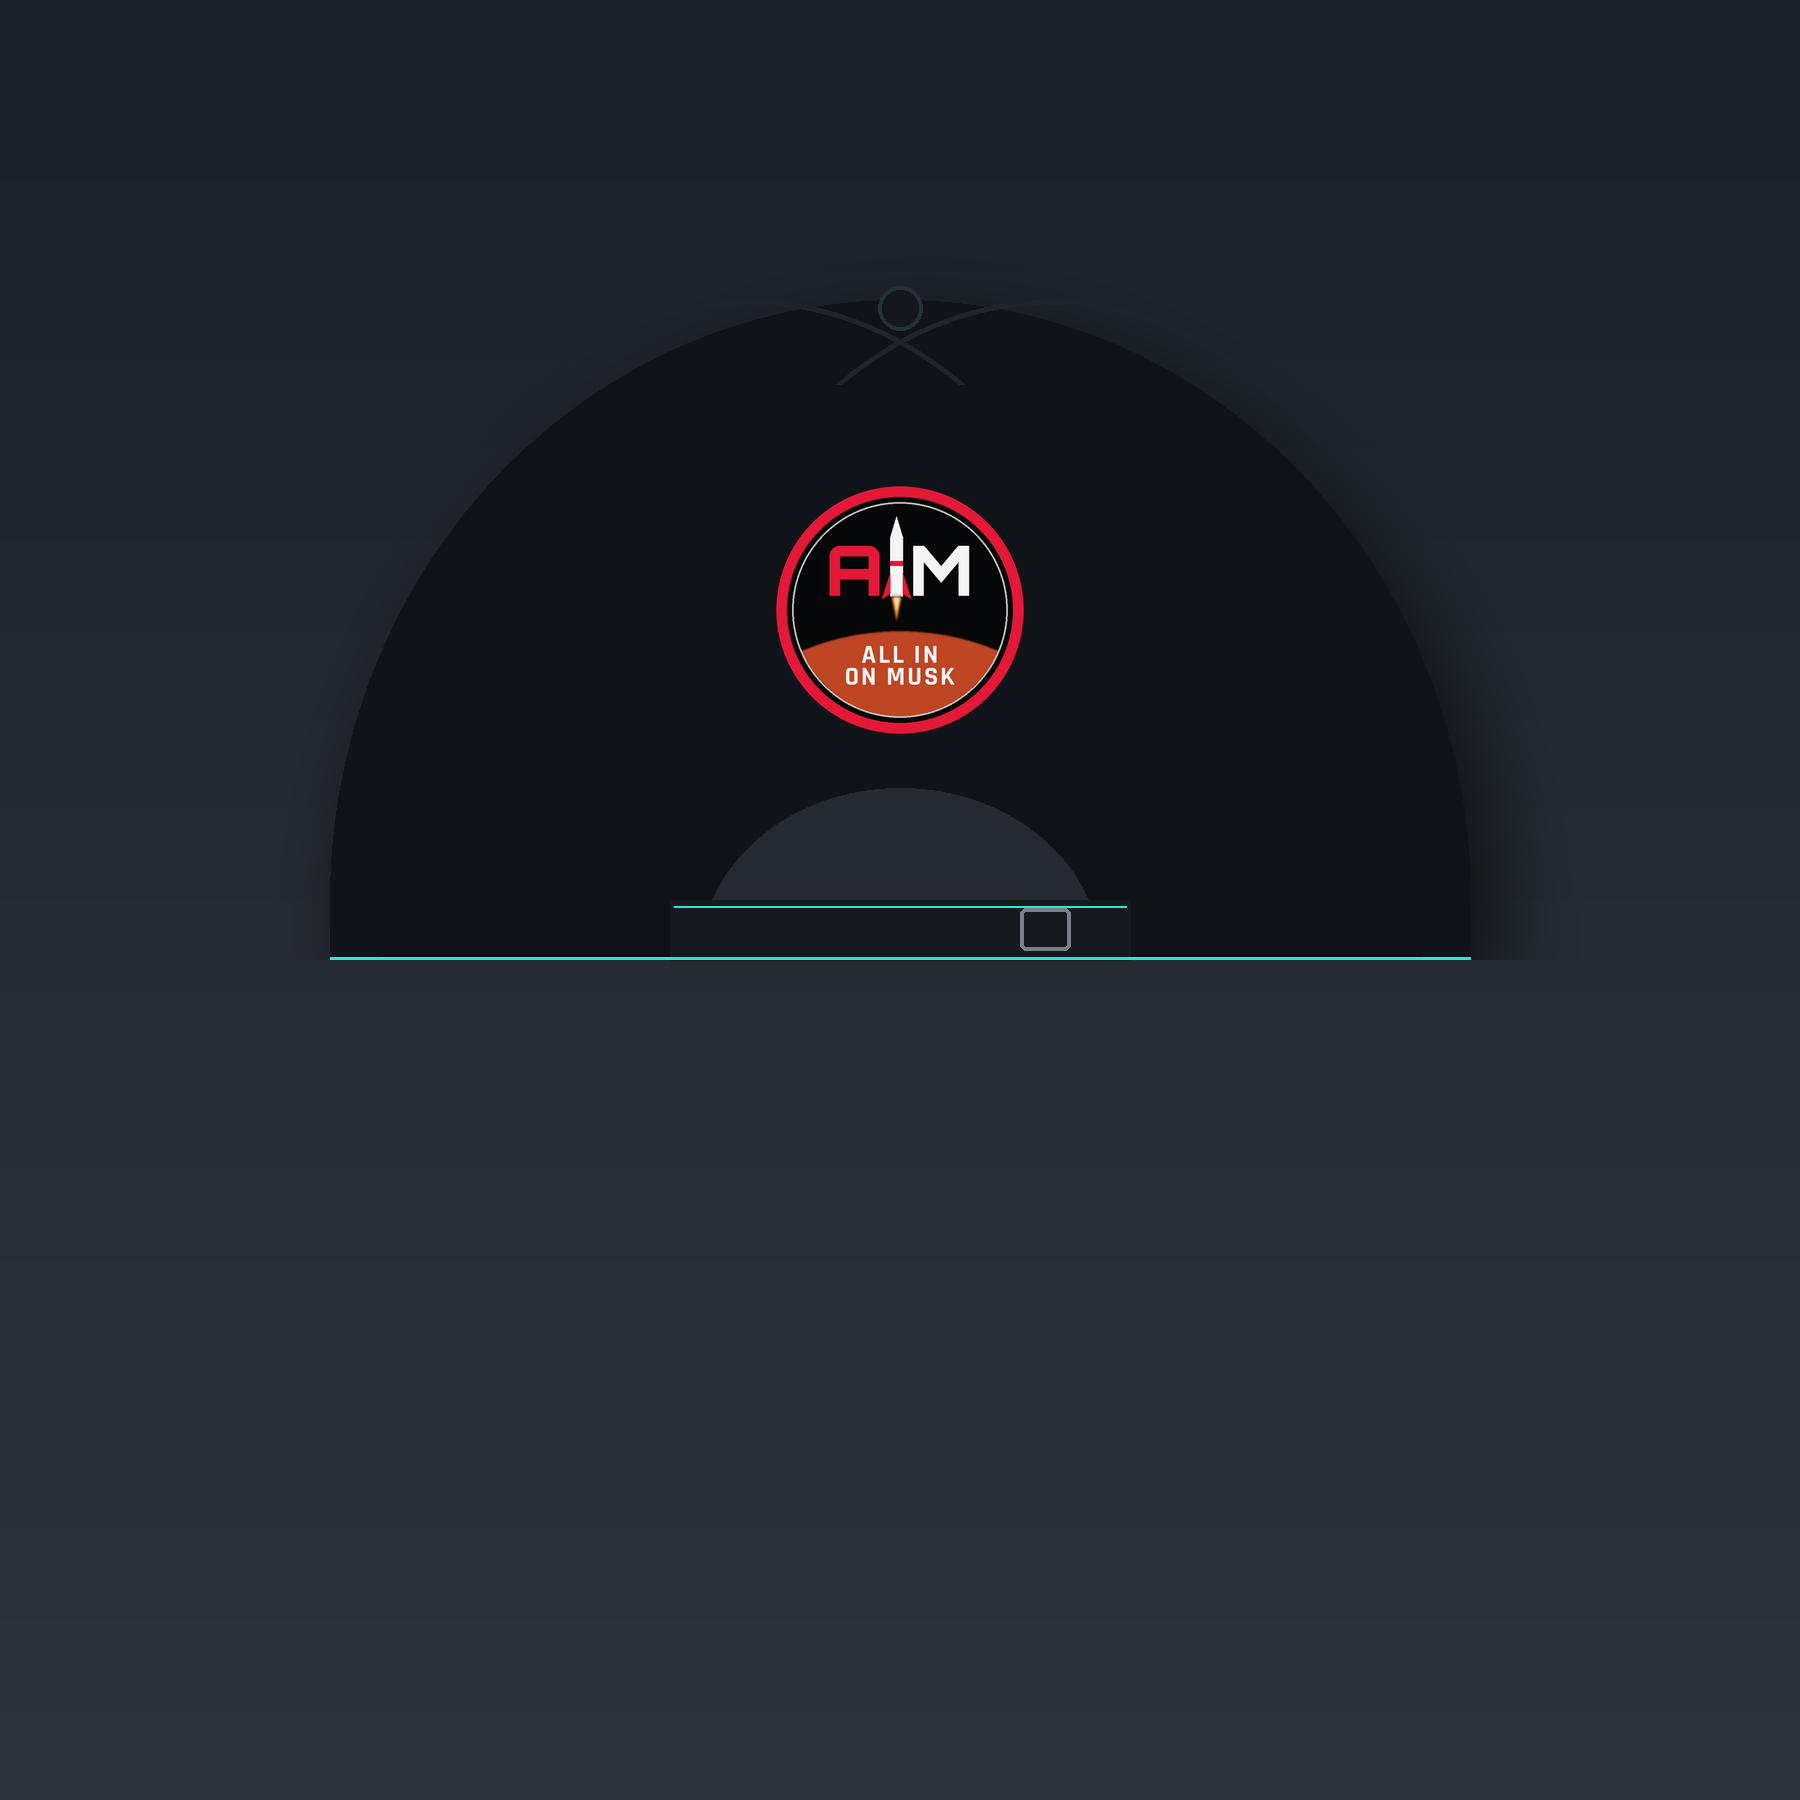
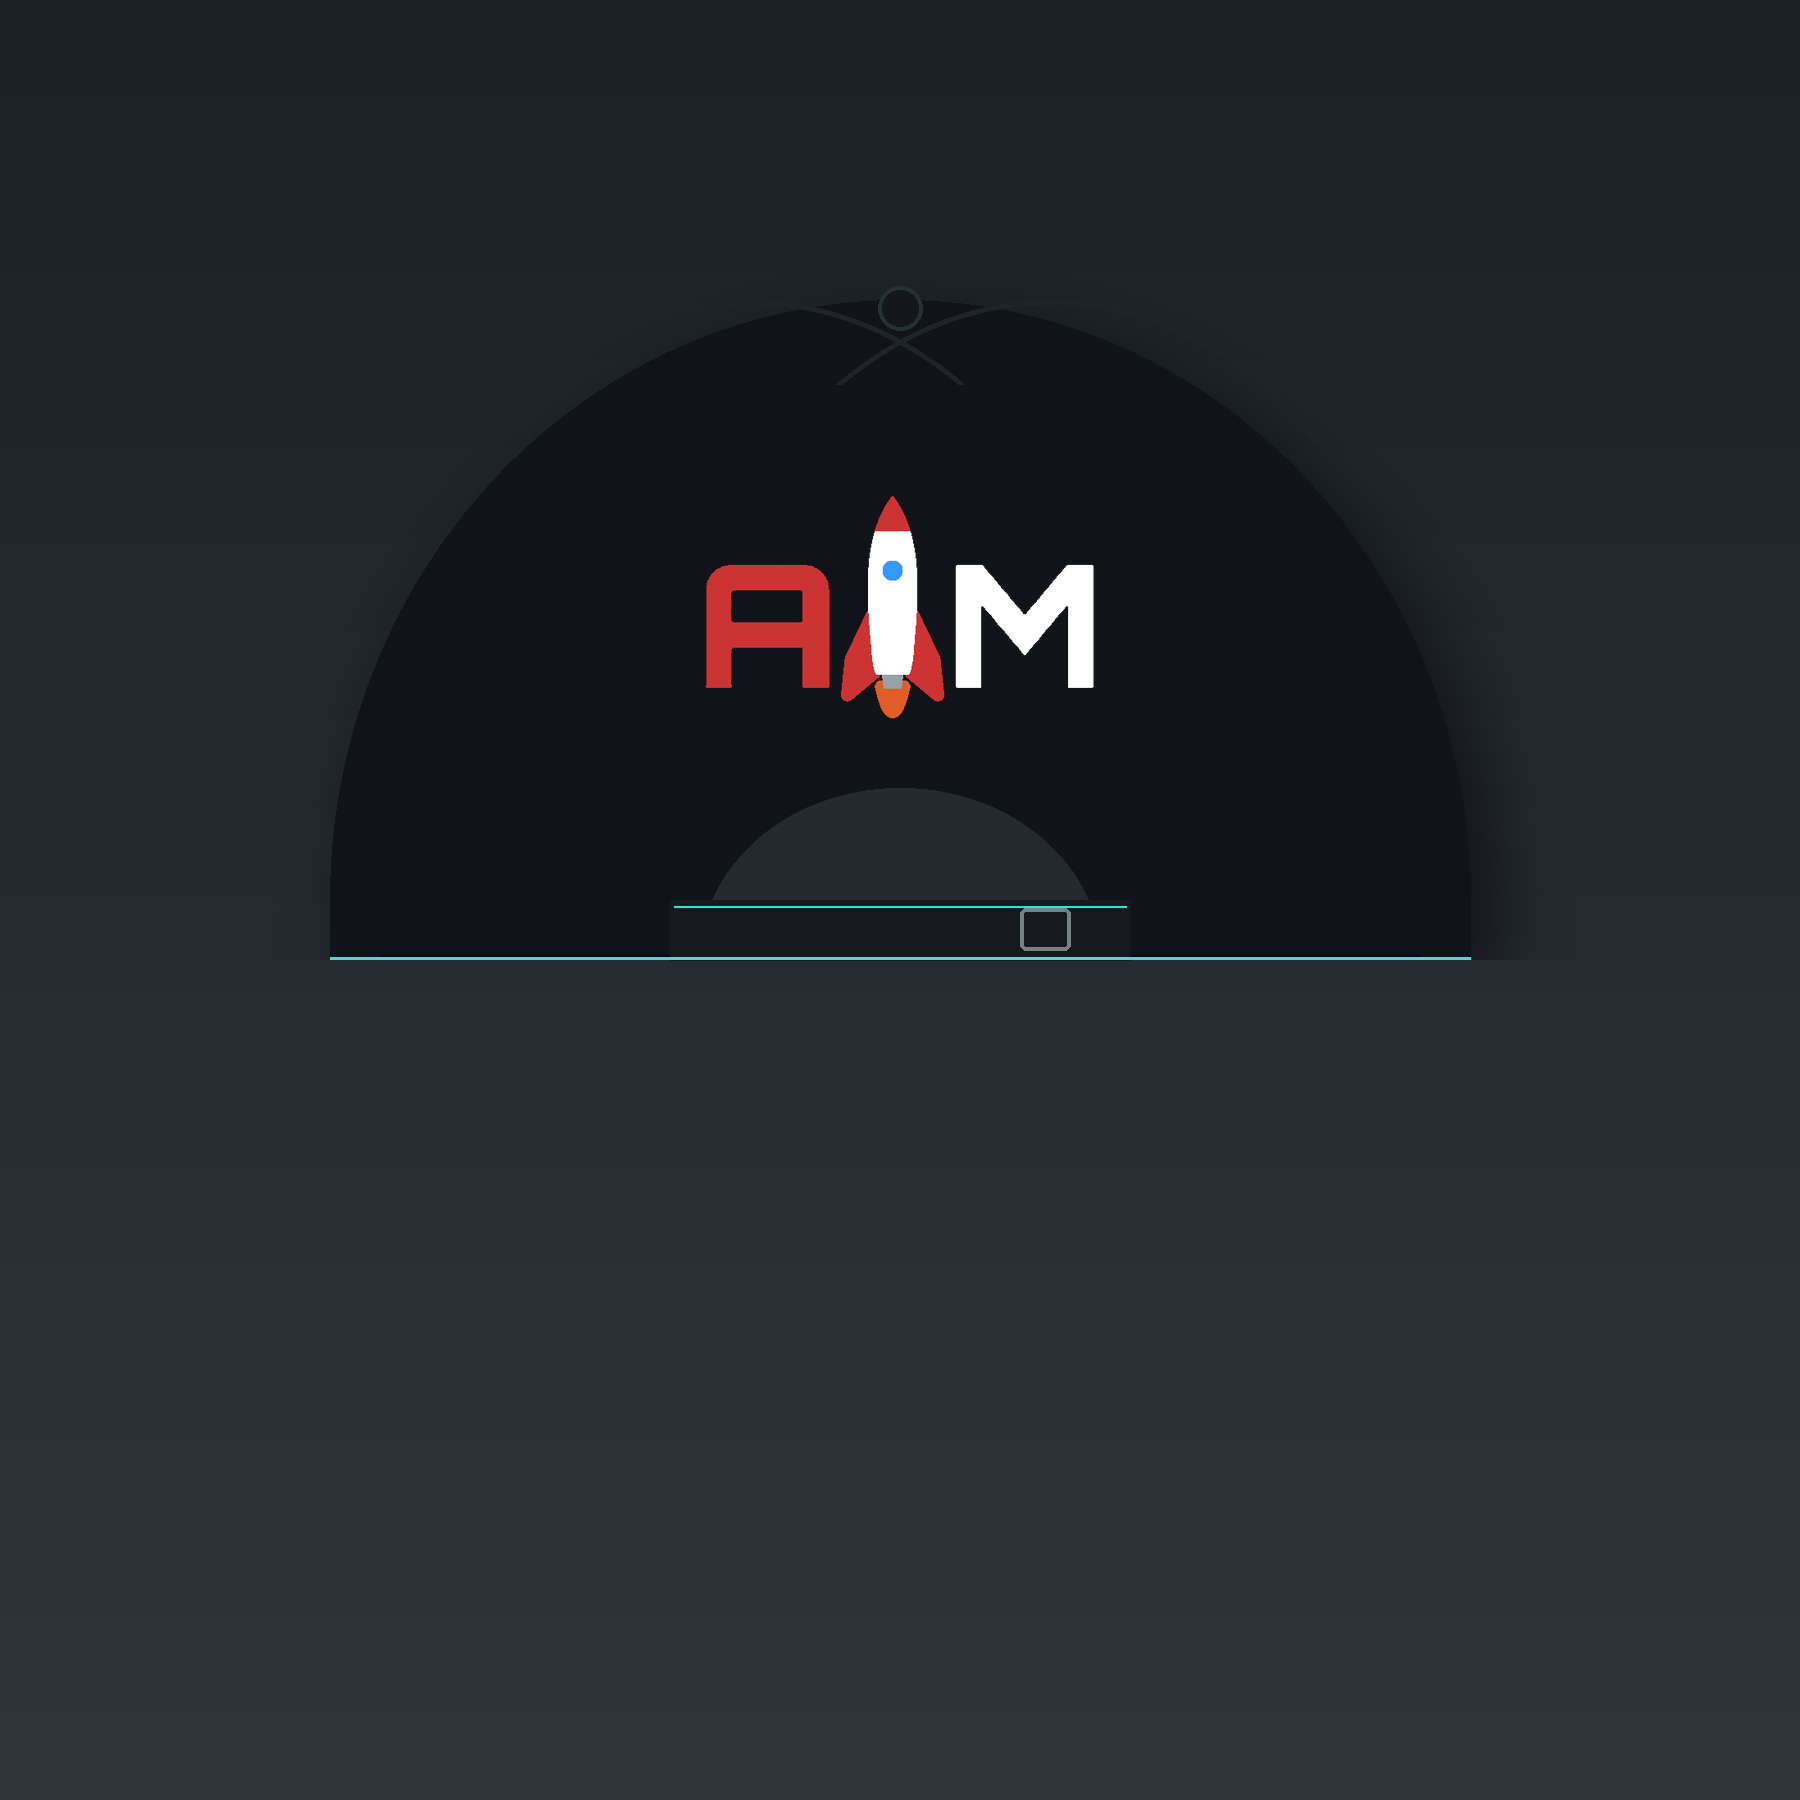
Hats: simplified AIM back embroidery (big letters + standard rocket), 5 back threads, updated back mockups

Changed region(s): [[0.3733, 0.2489, 0.6222, 0.4044]]

diff --git a/src/lib/shop/catalog.ts b/src/lib/shop/catalog.ts
@@ -95,7 +95,7 @@ export const PRODUCTS: Product[] = [
       { type: "embroidery_front", path: "/shop/print/hat.png" },
       { type: "embroidery_back", path: "/shop/print/hat-back-aim.png" },
     ],
-    options: [{ id: "thread_colors", value: ["#FFFFFF", "#3399FF", "#CC3366"] }, { id: "thread_colors_back", value: ["#000000", "#FFFFFF", "#CC3333", "#E25C27"] }],
+    options: [{ id: "thread_colors", value: ["#FFFFFF", "#3399FF", "#CC3366"] }, { id: "thread_colors_back", value: ["#CC3333", "#FFFFFF", "#E25C27", "#96A1A8", "#3399FF"] }],
     taxCode: "txcd_30011000", // clothing
   },
   {
@@ -215,7 +215,7 @@ export const PRODUCTS: Product[] = [
       { type: "embroidery_front", path: "/shop/print/hat-shield-01-rocket.png" },
       { type: "embroidery_back", path: "/shop/print/hat-back-aim.png" },
     ],
-    options: [{ id: "thread_colors", value: ["#000000", "#FFFFFF", "#3399FF", "#CC3366", "#333366"] }, { id: "thread_colors_back", value: ["#000000", "#FFFFFF", "#CC3333", "#E25C27"] }],
+    options: [{ id: "thread_colors", value: ["#000000", "#FFFFFF", "#3399FF", "#CC3366", "#333366"] }, { id: "thread_colors_back", value: ["#CC3333", "#FFFFFF", "#E25C27", "#96A1A8", "#3399FF"] }],
     taxCode: "txcd_30011000",
   },
   {
@@ -239,7 +239,7 @@ export const PRODUCTS: Product[] = [
       { type: "embroidery_front", path: "/shop/print/hat-shield-02-launch-pad.png" },
       { type: "embroidery_back", path: "/shop/print/hat-back-aim.png" },
     ],
-    options: [{ id: "thread_colors", value: ["#000000", "#FFFFFF", "#3399FF", "#CC3366", "#333366"] }, { id: "thread_colors_back", value: ["#000000", "#FFFFFF", "#CC3333", "#E25C27"] }],
+    options: [{ id: "thread_colors", value: ["#000000", "#FFFFFF", "#3399FF", "#CC3366", "#333366"] }, { id: "thread_colors_back", value: ["#CC3333", "#FFFFFF", "#E25C27", "#96A1A8", "#3399FF"] }],
     taxCode: "txcd_30011000",
   },
   {
@@ -263,7 +263,7 @@ export const PRODUCTS: Product[] = [
       { type: "embroidery_front", path: "/shop/print/hat-shield-03-gear.png" },
       { type: "embroidery_back", path: "/shop/print/hat-back-aim.png" },
     ],
-    options: [{ id: "thread_colors", value: ["#000000", "#FFFFFF", "#3399FF", "#CC3366", "#333366"] }, { id: "thread_colors_back", value: ["#000000", "#FFFFFF", "#CC3333", "#E25C27"] }],
+    options: [{ id: "thread_colors", value: ["#000000", "#FFFFFF", "#3399FF", "#CC3366", "#333366"] }, { id: "thread_colors_back", value: ["#CC3333", "#FFFFFF", "#E25C27", "#96A1A8", "#3399FF"] }],
     taxCode: "txcd_30011000",
   },
   {
@@ -287,7 +287,7 @@ export const PRODUCTS: Product[] = [
       { type: "embroidery_front", path: "/shop/print/hat-shield-04-orbit.png" },
       { type: "embroidery_back", path: "/shop/print/hat-back-aim.png" },
     ],
-    options: [{ id: "thread_colors", value: ["#000000", "#FFFFFF", "#3399FF", "#CC3366", "#333366"] }, { id: "thread_colors_back", value: ["#000000", "#FFFFFF", "#CC3333", "#E25C27"] }],
+    options: [{ id: "thread_colors", value: ["#000000", "#FFFFFF", "#3399FF", "#CC3366", "#333366"] }, { id: "thread_colors_back", value: ["#CC3333", "#FFFFFF", "#E25C27", "#96A1A8", "#3399FF"] }],
     taxCode: "txcd_30011000",
   },
   {
@@ -311,7 +311,7 @@ export const PRODUCTS: Product[] = [
       { type: "embroidery_front", path: "/shop/print/hat-shield-05-countdown.png" },
       { type: "embroidery_back", path: "/shop/print/hat-back-aim.png" },
     ],
-    options: [{ id: "thread_colors", value: ["#000000", "#FFFFFF", "#3399FF", "#CC3366", "#333366"] }, { id: "thread_colors_back", value: ["#000000", "#FFFFFF", "#CC3333", "#E25C27"] }],
+    options: [{ id: "thread_colors", value: ["#000000", "#FFFFFF", "#3399FF", "#CC3366", "#333366"] }, { id: "thread_colors_back", value: ["#CC3333", "#FFFFFF", "#E25C27", "#96A1A8", "#3399FF"] }],
     taxCode: "txcd_30011000",
   },
   {
@@ -335,7 +335,7 @@ export const PRODUCTS: Product[] = [
       { type: "embroidery_front", path: "/shop/print/hat-shield-06-stars.png" },
       { type: "embroidery_back", path: "/shop/print/hat-back-aim.png" },
     ],
-    options: [{ id: "thread_colors", value: ["#000000", "#FFFFFF", "#3399FF", "#CC3366", "#333366"] }, { id: "thread_colors_back", value: ["#000000", "#FFFFFF", "#CC3333", "#E25C27"] }],
+    options: [{ id: "thread_colors", value: ["#000000", "#FFFFFF", "#3399FF", "#CC3366", "#333366"] }, { id: "thread_colors_back", value: ["#CC3333", "#FFFFFF", "#E25C27", "#96A1A8", "#3399FF"] }],
     taxCode: "txcd_30011000",
   },
   {
